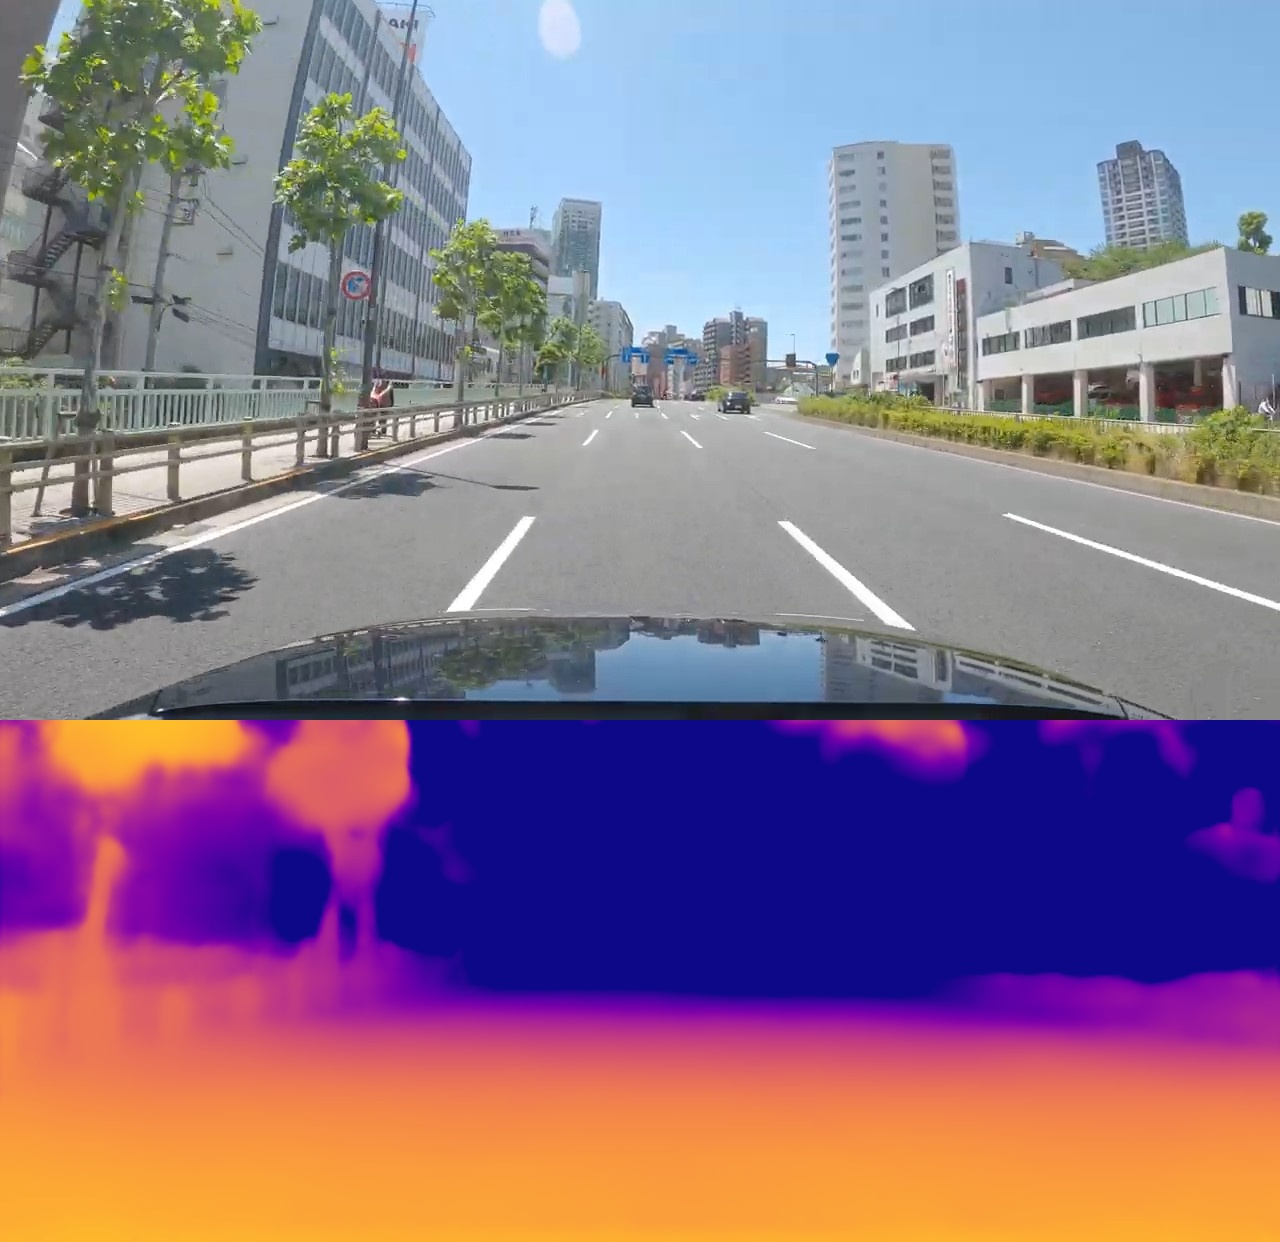
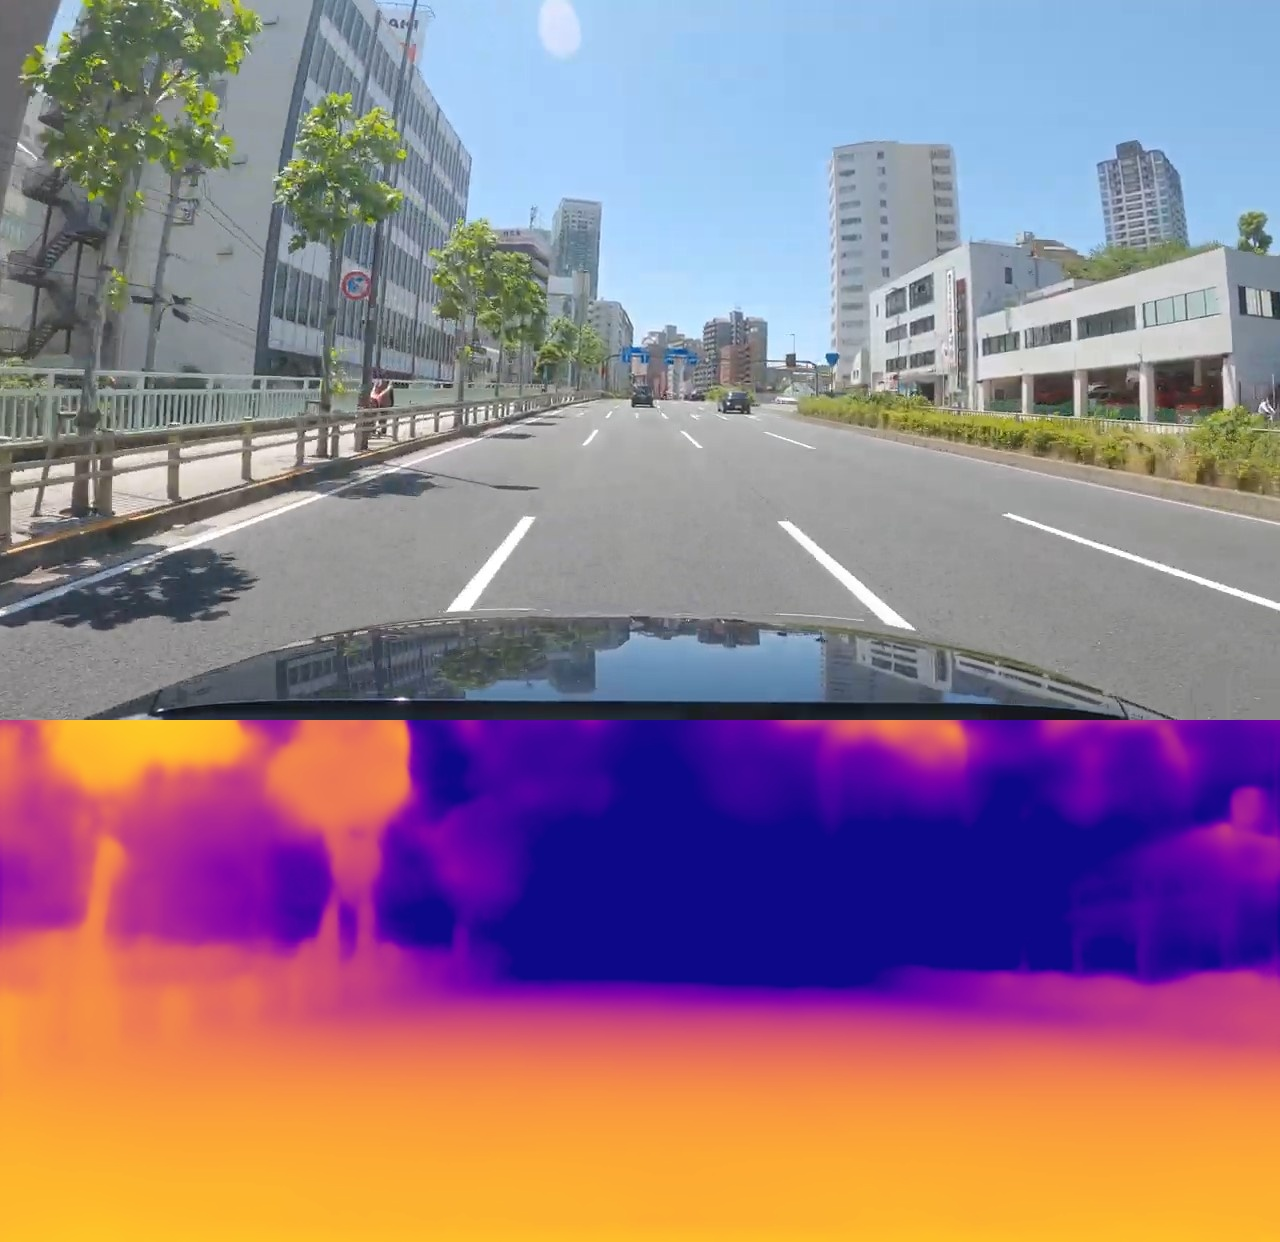
modify output

Changed region(s): [[0.0, 0.5813, 1.0, 0.8873]]

diff --git a/ldrn_TensorRT/src/ldrn.cpp b/ldrn_TensorRT/src/ldrn.cpp
@@ -190,7 +190,7 @@ void Ldrn_detector::post_process(cv::Mat& img)
 
     cv::Mat mat_out = cv::Mat(output_h, output_w, CV_32FC1, values);  /* value has no specific range */
 
-    mat_out.convertTo(mat_out, CV_8UC1, -5, 255);   /* experimentally deterined */
+    mat_out.convertTo(mat_out, CV_8UC1, -4, 255);   /* experimentally deterined */
     mat_out = mat_out(cv::Rect(0, static_cast<int32_t>(mat_out.rows * 0.18), mat_out.cols, static_cast<int32_t>(mat_out.rows * (1.0 - 0.18))));
     std::cout << "mat_out height: " << mat_out.rows << ", mat_out width: " << mat_out.cols << std::endl;// 209 * 512
 
